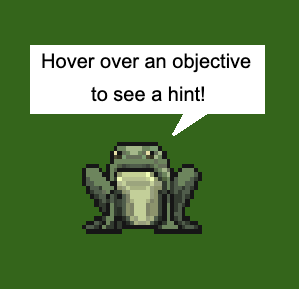
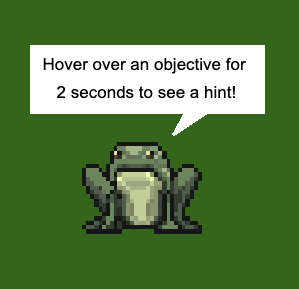
timer objective hint

Changed region(s): [[0.1204, 0.1869, 0.8428, 0.2491], [0.1806, 0.2803, 0.7826, 0.3737]]

diff --git a/scripts/objectives.js b/scripts/objectives.js
@@ -7,6 +7,8 @@ var objectiveList = {
 
 }
 
+var ot = 0;
+
 //adds a new objective to the list (initially uncompleted)
 function addObjective(descr,act,reward, hintGif){
 	let i = objectiveList.descriptions.length;		//new index of entry
@@ -115,10 +117,14 @@ function setObjsDiv(){
 
 //show tutorial gif for the specific objective
 function showTutorialGif(i){
-	document.getElementById("tutGif").src = objectiveList.hints[i];
+	if(ot == 0){
+		ot = setTimeout(function(){document.getElementById("tutGif").src = objectiveList.hints[i];},2000);
+	}	
 }
 
 //default gif
 function hideTutorialGif(){
 	document.getElementById("tutGif").src = "imgs/tutorial/tutFrog.png";
+	clearTimeout(ot);
+	ot = 0;
 }
